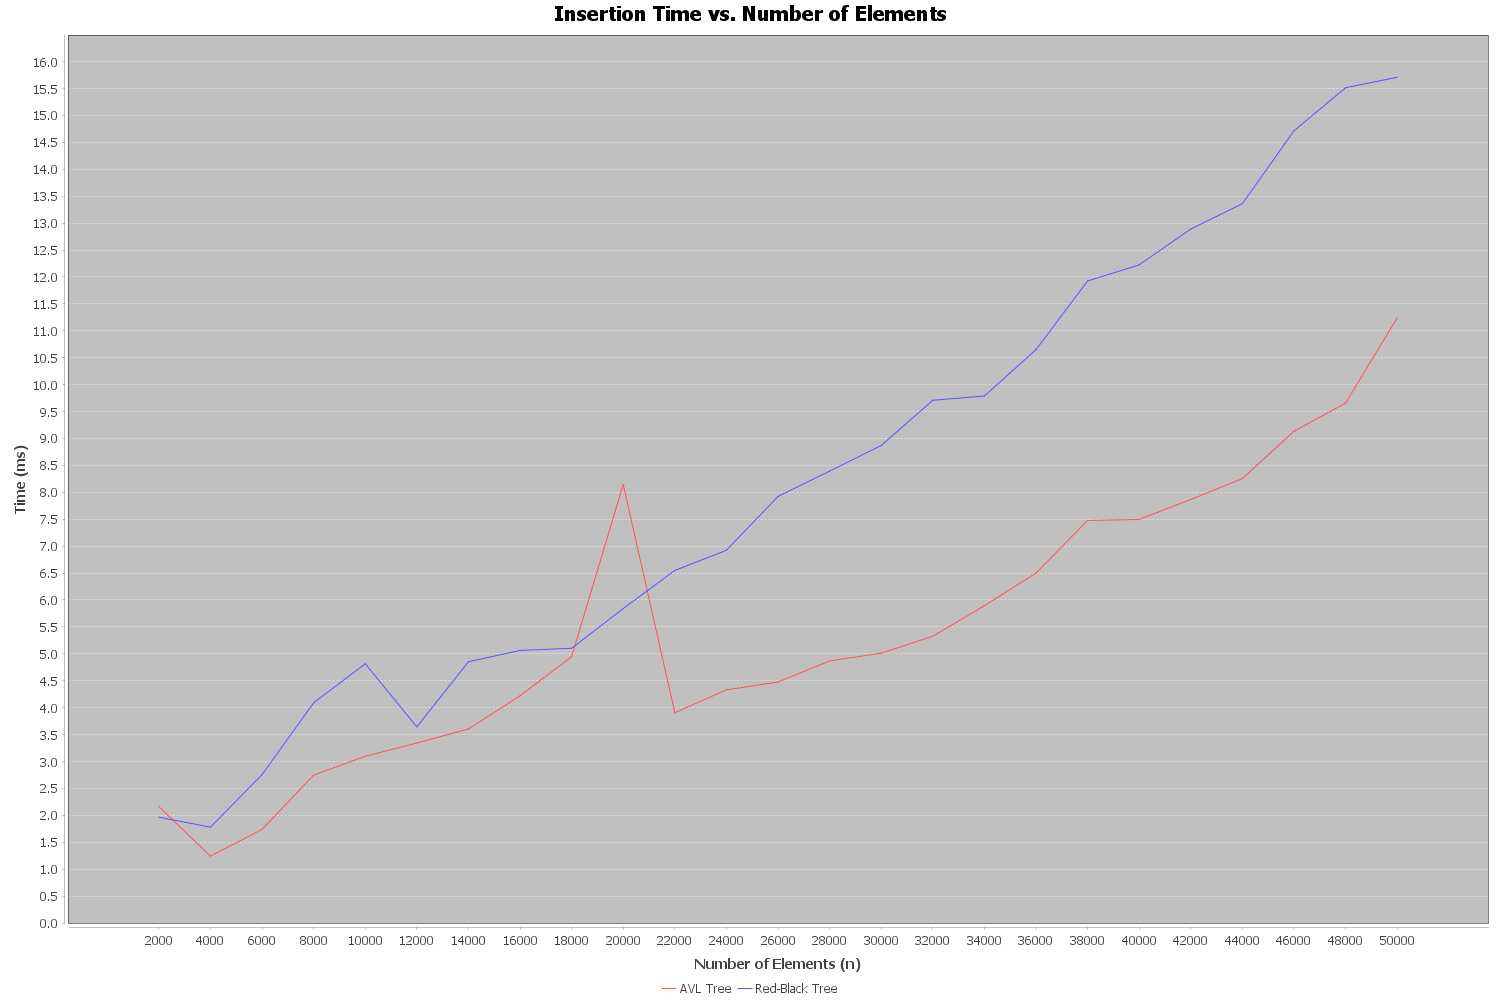
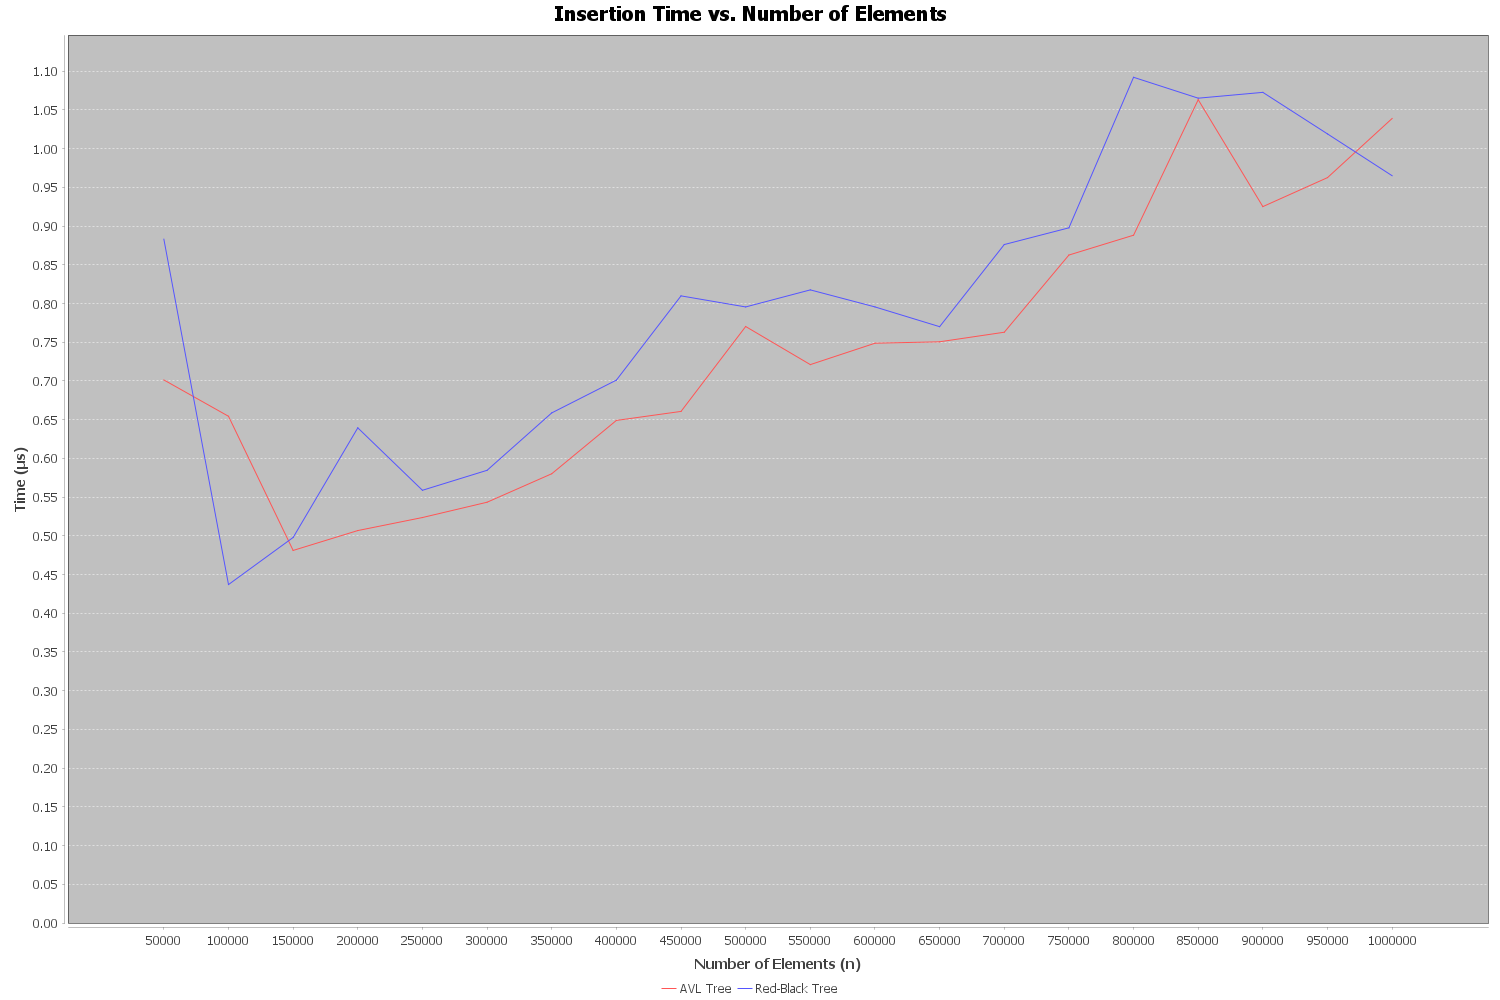
Time calculation per one operation

diff --git a/SelfBalancedBSTs/src/main/java/Plotting/InsertionBenchmark.java b/SelfBalancedBSTs/src/main/java/Plotting/InsertionBenchmark.java
@@ -9,7 +9,7 @@ import java.util.*;
 import java.util.function.Supplier;
 
 public class InsertionBenchmark {
-    static final int START = 2000, END = 50_000, STEP = 2000;
+    static final int START = 50_000, END = 1_000_000, STEP = 50_000;
 
     public static void main(String[] args) throws IOException {
         List<Integer> ns = new ArrayList<>();
@@ -41,7 +41,7 @@ public class InsertionBenchmark {
                 new String[]{"AVL Tree", "Red-Black Tree"},
                 "Insertion Time vs. Number of Elements",
                 "Number of Elements (n)",
-                "Time (ms)",
+                "Time (µs)",
                 "insertion_time_chart.png"
         );
 
@@ -49,11 +49,13 @@ public class InsertionBenchmark {
 
     private static double measureInsertionTime(Supplier<BSTSet<Integer>> setSupplier, List<Integer> keys) {
         BSTSet<Integer> set = setSupplier.get();
-        long start = System.nanoTime();
+        long sum = 0;
         for (int key : keys) {
+            long start = System.nanoTime();
             set.insert(key);
+            long end = System.nanoTime();
+            sum += end - start;
         }
-        long end = System.nanoTime();
-        return (end - start) / 1e6;
+        return (double) sum / keys.size() / 1e3;
     }
 }

diff --git a/SelfBalancedBSTs/src/main/java/Plotting/SearchBenchmark.java b/SelfBalancedBSTs/src/main/java/Plotting/SearchBenchmark.java
@@ -9,7 +9,7 @@ import java.util.*;
 import java.util.function.Supplier;
 
 public class SearchBenchmark {
-    static final int START = 2000, END = 50_000, STEP = 2000;
+    static final int START = 50_000, END = 1_000_000, STEP = 50_000;
 
     public static void main(String[] args) throws IOException {
         List<Integer> ns = new ArrayList<>();
@@ -38,7 +38,7 @@ public class SearchBenchmark {
                 new String[]{"AVL Tree", "Red-Black Tree"},
                 "Search Time vs. Number of Elements",
                 "Number of Elements (n)",
-                "Time (ms)",
+                "Time (µs)",
                 "search_time_chart.png"
         );
 
@@ -53,12 +53,13 @@ public class SearchBenchmark {
 
         Collections.shuffle(keys);
 
-        long start = System.nanoTime();
+        long sum = 0;
         for (int key : keys) {
+            long start = System.nanoTime();
             set.search(key);
+            long end = System.nanoTime();
+            sum += end - start;
         }
-        long end = System.nanoTime();
-
-        return (end - start) / 1e6;
+        return (double) sum / keys.size() / 1e3;
     }
 }
